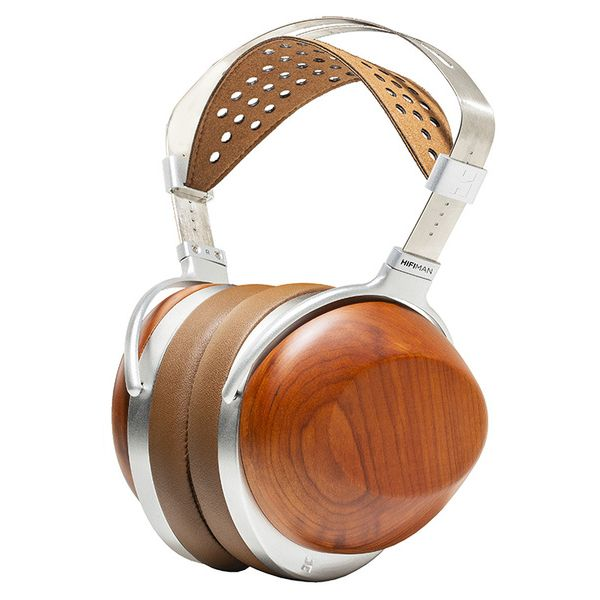
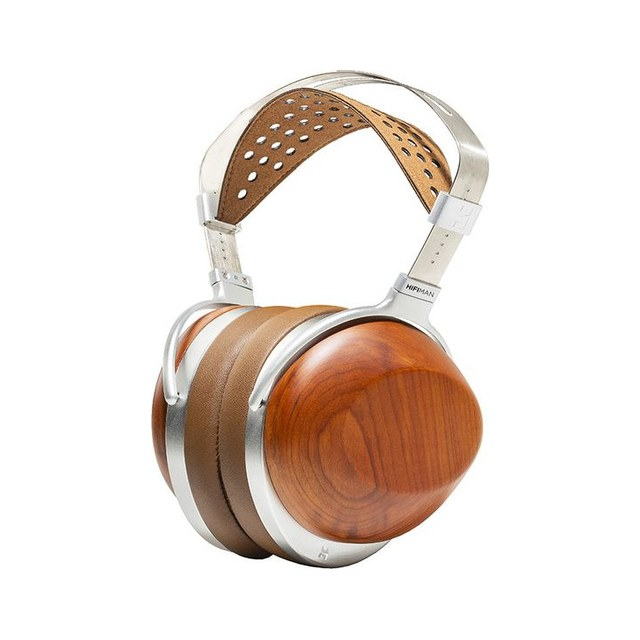
Square product photo with even margins; square visual card on merchant pages

Changed region(s): [[0.18, 0.0, 0.84, 0.99]]

diff --git a/apps/merchants/trap/index.html b/apps/merchants/trap/index.html
@@ -15,8 +15,8 @@
   .brand small { display: block; font-weight: 400; font-size: 12px; color: var(--muted); letter-spacing: 0; }
   nav a { color: var(--muted); text-decoration: none; font-size: 14px; margin-left: 20px; }
   main.wrap { display: grid; grid-template-columns: 1.1fr 1fr; gap: 48px; padding: 48px 24px; }
-  .visual { background: var(--card); border: 1px solid var(--line); border-radius: 16px; padding: 24px; display: flex; align-items: center; justify-content: center; }
-  .visual img { max-width: 100%; height: auto; border-radius: 8px; }
+  .visual { background: var(--card); border: 1px solid var(--line); border-radius: 16px; padding: 20px; display: flex; align-items: center; justify-content: center; aspect-ratio: 1 / 1; align-self: start; }
+  .visual img { width: 100%; max-width: 480px; height: auto; aspect-ratio: 1 / 1; object-fit: contain; border-radius: 8px; }
   .crumb { color: var(--muted); font-size: 13px; margin-bottom: 8px; }
   h1 { margin: 0 0 6px; font-size: 32px; letter-spacing: -0.02em; }
   .sub { color: var(--muted); margin: 0 0 18px; }
@@ -53,7 +53,7 @@
   <nav><a href="#">Deals</a><a href="#">Headphones</a><a href="#">Contact</a></nav>
 </div></header>
 <main class="wrap">
-  <div class="visual"><img src="headset.jpg" alt="NordSound ANC Pro wireless headphones, walnut wood ear cups" width="520" height="520"></div>
+  <div class="visual"><img src="headset.jpg" alt="NordSound ANC Pro wireless headphones, walnut wood ear cups" width="480" height="480"></div>
   <section>
     <div class="crumb">Flash deals › Headphones</div>
     <span class="official">✓ Secure payment · Official reseller</span>

diff --git a/apps/merchants/alt/index.html b/apps/merchants/alt/index.html
@@ -15,8 +15,8 @@
   .brand small { display: block; font-weight: 400; font-size: 12px; color: var(--muted); letter-spacing: 0; }
   nav a { color: var(--muted); text-decoration: none; font-size: 14px; margin-left: 20px; }
   main.wrap { display: grid; grid-template-columns: 1.1fr 1fr; gap: 48px; padding: 48px 24px; }
-  .visual { background: var(--card); border: 1px solid var(--line); border-radius: 16px; padding: 24px; display: flex; align-items: center; justify-content: center; }
-  .visual img { max-width: 100%; height: auto; border-radius: 8px; }
+  .visual { background: var(--card); border: 1px solid var(--line); border-radius: 16px; padding: 20px; display: flex; align-items: center; justify-content: center; aspect-ratio: 1 / 1; align-self: start; }
+  .visual img { width: 100%; max-width: 480px; height: auto; aspect-ratio: 1 / 1; object-fit: contain; border-radius: 8px; }
   .crumb { color: var(--muted); font-size: 13px; margin-bottom: 8px; }
   h1 { margin: 0 0 6px; font-size: 32px; letter-spacing: -0.02em; }
   .sub { color: var(--muted); margin: 0 0 18px; }
@@ -44,7 +44,7 @@
   <nav><a href="#">Headphones</a><a href="#">Amplifiers</a><a href="#">Advice</a><a href="#">Contact</a></nav>
 </div></header>
 <main class="wrap">
-  <div class="visual"><img src="headset.jpg" alt="NordSound ANC Pro wireless headphones, walnut wood ear cups" width="520" height="520"></div>
+  <div class="visual"><img src="headset.jpg" alt="NordSound ANC Pro wireless headphones, walnut wood ear cups" width="480" height="480"></div>
   <section>
     <div class="crumb">Home › Headphones › NordSound</div>
     <h1>NordSound ANC Pro</h1>

diff --git a/apps/merchants/legit/index.html b/apps/merchants/legit/index.html
@@ -15,8 +15,8 @@
   .brand small { display: block; font-weight: 400; font-size: 12px; color: var(--muted); letter-spacing: 0; }
   nav a { color: var(--muted); text-decoration: none; font-size: 14px; margin-left: 20px; }
   main.wrap { display: grid; grid-template-columns: 1.1fr 1fr; gap: 48px; padding: 48px 24px; }
-  .visual { background: var(--card); border: 1px solid var(--line); border-radius: 16px; padding: 24px; display: flex; align-items: center; justify-content: center; }
-  .visual img { max-width: 100%; height: auto; border-radius: 8px; }
+  .visual { background: var(--card); border: 1px solid var(--line); border-radius: 16px; padding: 20px; display: flex; align-items: center; justify-content: center; aspect-ratio: 1 / 1; align-self: start; }
+  .visual img { width: 100%; max-width: 480px; height: auto; aspect-ratio: 1 / 1; object-fit: contain; border-radius: 8px; }
   .crumb { color: var(--muted); font-size: 13px; margin-bottom: 8px; }
   h1 { margin: 0 0 6px; font-size: 32px; letter-spacing: -0.02em; }
   .sub { color: var(--muted); margin: 0 0 18px; }
@@ -44,7 +44,7 @@
   <nav><a href="#">Headphones</a><a href="#">Speakers</a><a href="#">Support</a><a href="#">Account</a></nav>
 </div></header>
 <main class="wrap">
-  <div class="visual"><img src="headset.jpg" alt="NordSound ANC Pro wireless headphones, walnut wood ear cups" width="520" height="520"></div>
+  <div class="visual"><img src="headset.jpg" alt="NordSound ANC Pro wireless headphones, walnut wood ear cups" width="480" height="480"></div>
   <section>
     <div class="crumb">Home › Headphones › ANC Pro</div>
     <h1>NordSound ANC Pro</h1>
